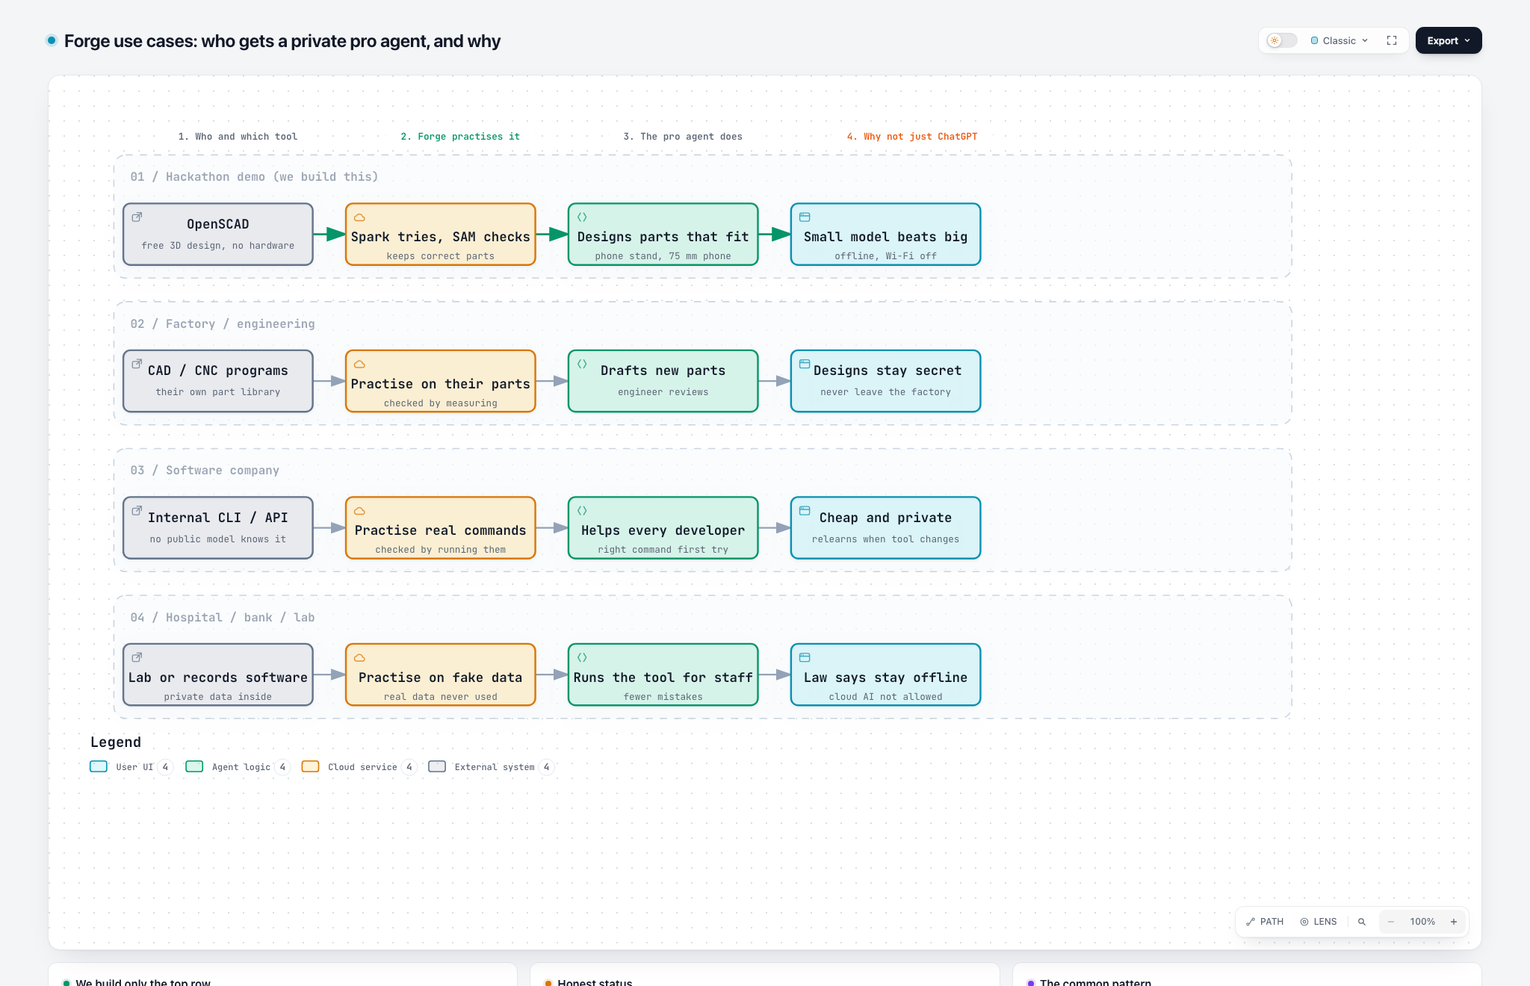
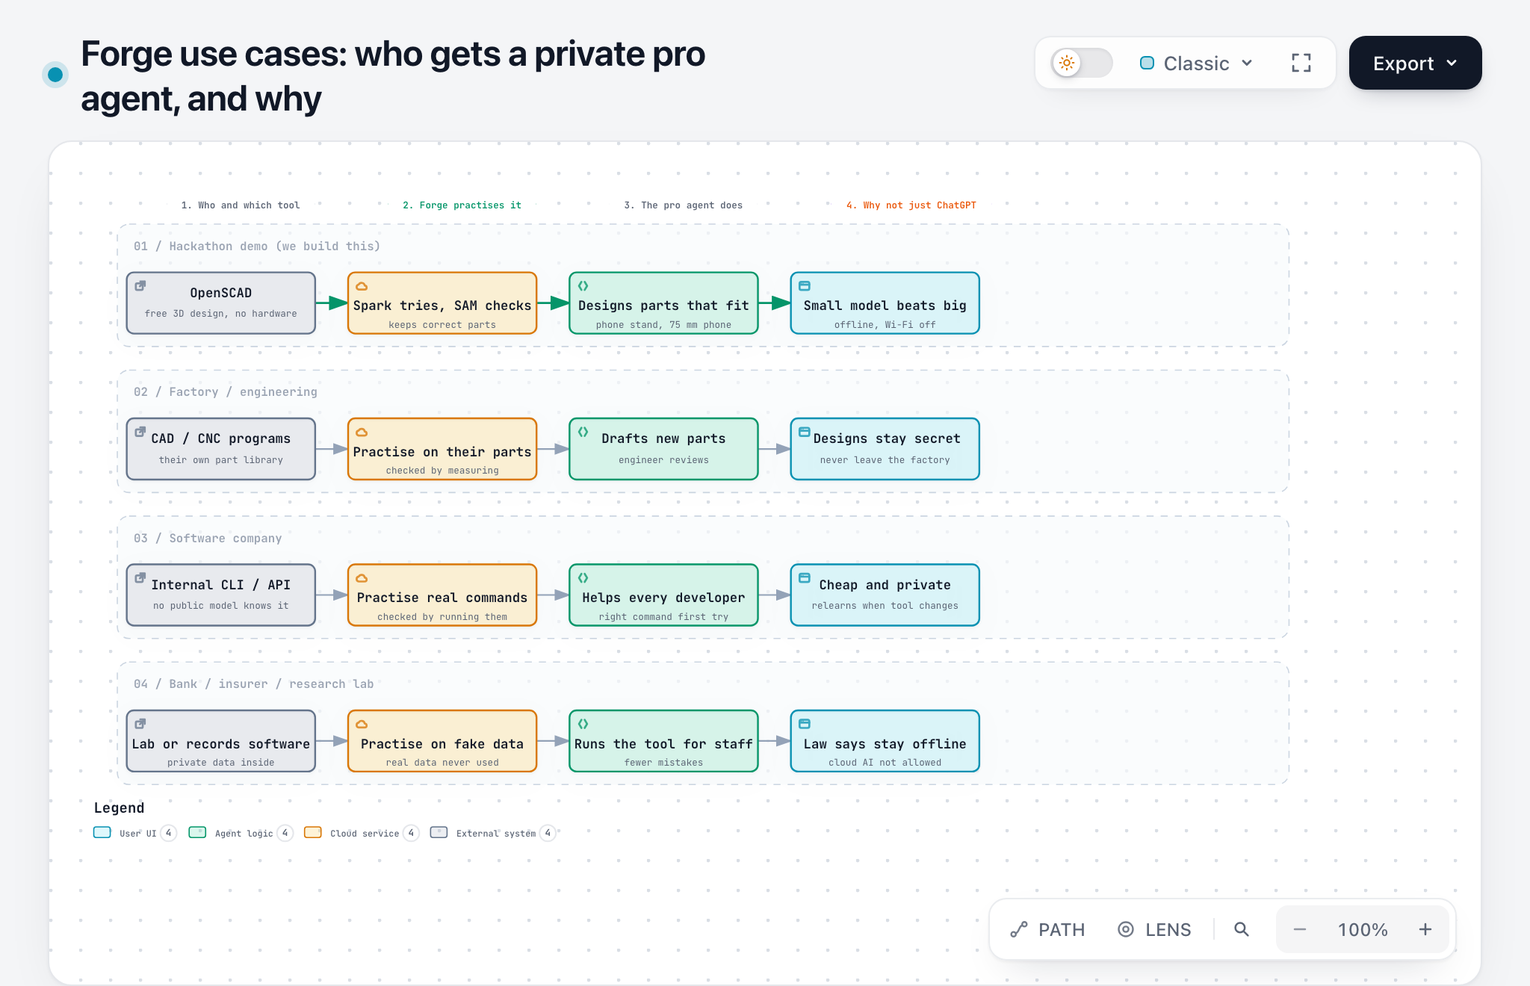
Repo readiness P1-P5 (verifier): no health/export-control wording (use-case diagram re-rendered), full authorship list, hackathon dates (kickoff Oct 26, HerdShot script origin), derivative-licence notice, third-party docs (CadQuery Apache-2.0, FreeCAD CC-BY-3.0), cloud env names; untrack Obsidian wo

diff --git a/docs/diagrams/forge-use-cases.html b/docs/diagrams/forge-use-cases.html
@@ -5023,7 +5023,7 @@ OTHER DEALINGS IN THE FONT SOFTWARE.
         <text x="54" y="322" class="t-dim" font-size="10" font-weight="600">03 / Software company</text>
 
         <rect data-graph-role="structural-frame" data-composition-frame-kind="lane" data-composition-frame-id="lane-3" x="40" y="424" width="995" height="104" rx="10" class="c-lane" stroke-width="1"/>
-        <text x="54" y="446" class="t-dim" font-size="10" font-weight="600">04 / Hospital / bank / lab</text>
+        <text x="54" y="446" class="t-dim" font-size="10" font-weight="600">04 / Bank / insurer / research lab</text>
 
         <!-- Phase headers -->
         <line x1="82" y1="35" x2="207.6" y2="35" class="a-default" stroke-width="1.1"/>
@@ -5201,8 +5201,8 @@ OTHER DEALINGS IN THE FONT SOFTWARE.
           <text data-detail="context" x="692" y="379" class="t-muted" font-size="8" text-anchor="middle">relearns when tool changes</text>
         </g>
 
-        <g id="node-p_tool" data-node-id="p_tool" data-node-label="Lab or records software" tabindex="0" role="button" aria-label="Focus Lab or records software, private data inside, Hospital / bank / lab › 1. Who and which tool" aria-pressed="false" data-node-kind="external" data-node-sublabel="private data inside" data-node-context="Hospital / bank / lab › 1. Who and which tool">
-          <title>Lab or records software · private data inside · Hospital / bank / lab › 1. Who and which tool</title>
+        <g id="node-p_tool" data-node-id="p_tool" data-node-label="Lab or records software" tabindex="0" role="button" aria-label="Focus Lab or records software, private data inside, Bank / insurer / research lab › 1. Who and which tool" aria-pressed="false" data-node-kind="external" data-node-sublabel="private data inside" data-node-context="Bank / insurer / research lab › 1. Who and which tool">
+          <title>Lab or records software · private data inside · Bank / insurer / research lab › 1. Who and which tool</title>
           <rect x="48" y="465" width="160" height="52" rx="6" class="c-mask"/>
           <rect x="48" y="465" width="160" height="52" rx="6" class="c-external" stroke-width="1.5"/>
           <g aria-hidden="true" data-semantic-sigil="external" class="semantic-sigil s-external" transform="translate(54 471) scale(0.6875)">
@@ -5213,8 +5213,8 @@ OTHER DEALINGS IN THE FONT SOFTWARE.
           <text data-detail="context" x="128" y="512.1" class="t-muted" font-size="8" text-anchor="middle">private data inside</text>
         </g>
 
-        <g id="node-p_forge" data-node-id="p_forge" data-node-label="Practise on fake data" tabindex="0" role="button" aria-label="Focus Practise on fake data, real data never used, Hospital / bank / lab › 2. Forge practises it" aria-pressed="false" data-node-kind="cloud" data-node-sublabel="real data never used" data-node-context="Hospital / bank / lab › 2. Forge practises it">
-          <title>Practise on fake data · real data never used · Hospital / bank / lab › 2. Forge practises it</title>
+        <g id="node-p_forge" data-node-id="p_forge" data-node-label="Practise on fake data" tabindex="0" role="button" aria-label="Focus Practise on fake data, real data never used, Bank / insurer / research lab › 2. Forge practises it" aria-pressed="false" data-node-kind="cloud" data-node-sublabel="real data never used" data-node-context="Bank / insurer / research lab › 2. Forge practises it">
+          <title>Practise on fake data · real data never used · Bank / insurer / research lab › 2. Forge practises it</title>
           <rect x="236" y="465" width="160" height="52" rx="6" class="c-mask"/>
           <rect x="236" y="465" width="160" height="52" rx="6" class="c-cloud" stroke-width="1.5"/>
           <g aria-hidden="true" data-semantic-sigil="cloud" class="semantic-sigil s-cloud" transform="translate(242 471) scale(0.6875)">
@@ -5224,8 +5224,8 @@ OTHER DEALINGS IN THE FONT SOFTWARE.
           <text data-detail="context" x="316" y="512.1" class="t-muted" font-size="8" text-anchor="middle">real data never used</text>
         </g>
 
-        <g id="node-p_does" data-node-id="p_does" data-node-label="Runs the tool for staff" tabindex="0" role="button" aria-label="Focus Runs the tool for staff, fewer mistakes, Hospital / bank / lab › 3. The pro agent does" aria-pressed="false" data-node-kind="backend" data-node-sublabel="fewer mistakes" data-node-context="Hospital / bank / lab › 3. The pro agent does">
-          <title>Runs the tool for staff · fewer mistakes · Hospital / bank / lab › 3. The pro agent does</title>
+        <g id="node-p_does" data-node-id="p_does" data-node-label="Runs the tool for staff" tabindex="0" role="button" aria-label="Focus Runs the tool for staff, fewer mistakes, Bank / insurer / research lab › 3. The pro agent does" aria-pressed="false" data-node-kind="backend" data-node-sublabel="fewer mistakes" data-node-context="Bank / insurer / research lab › 3. The pro agent does">
+          <title>Runs the tool for staff · fewer mistakes · Bank / insurer / research lab › 3. The pro agent does</title>
           <rect x="424" y="465" width="160" height="52" rx="6" class="c-mask"/>
           <rect x="424" y="465" width="160" height="52" rx="6" class="c-backend" stroke-width="1.5"/>
           <g aria-hidden="true" data-semantic-sigil="backend" class="semantic-sigil s-backend" transform="translate(430 471) scale(0.6875)">
@@ -5235,8 +5235,8 @@ OTHER DEALINGS IN THE FONT SOFTWARE.
           <text data-detail="context" x="504" y="512.1" class="t-muted" font-size="8" text-anchor="middle">fewer mistakes</text>
         </g>
 
-        <g id="node-p_why" data-node-id="p_why" data-node-label="Law says stay offline" tabindex="0" role="button" aria-label="Focus Law says stay offline, cloud AI not allowed, Hospital / bank / lab › 4. Why not just ChatGPT" aria-pressed="false" data-node-kind="frontend" data-node-sublabel="cloud AI not allowed" data-node-context="Hospital / bank / lab › 4. Why not just ChatGPT">
-          <title>Law says stay offline · cloud AI not allowed · Hospital / bank / lab › 4. Why not just ChatGPT</title>
+        <g id="node-p_why" data-node-id="p_why" data-node-label="Law says stay offline" tabindex="0" role="button" aria-label="Focus Law says stay offline, cloud AI not allowed, Bank / insurer / research lab › 4. Why not just ChatGPT" aria-pressed="false" data-node-kind="frontend" data-node-sublabel="cloud AI not allowed" data-node-context="Bank / insurer / research lab › 4. Why not just ChatGPT">
+          <title>Law says stay offline · cloud AI not allowed · Bank / insurer / research lab › 4. Why not just ChatGPT</title>
           <rect x="612" y="465" width="160" height="52" rx="6" class="c-mask"/>
           <rect x="612" y="465" width="160" height="52" rx="6" class="c-frontend" stroke-width="1.5"/>
           <g aria-hidden="true" data-semantic-sigil="frontend" class="semantic-sigil s-frontend" transform="translate(618 471) scale(0.6875)">

diff --git a/forge-wiki/wiki/assets/diagrams/forge-use-cases.html b/forge-wiki/wiki/assets/diagrams/forge-use-cases.html
@@ -5023,7 +5023,7 @@ OTHER DEALINGS IN THE FONT SOFTWARE.
         <text x="54" y="322" class="t-dim" font-size="10" font-weight="600">03 / Software company</text>
 
         <rect data-graph-role="structural-frame" data-composition-frame-kind="lane" data-composition-frame-id="lane-3" x="40" y="424" width="995" height="104" rx="10" class="c-lane" stroke-width="1"/>
-        <text x="54" y="446" class="t-dim" font-size="10" font-weight="600">04 / Hospital / bank / lab</text>
+        <text x="54" y="446" class="t-dim" font-size="10" font-weight="600">04 / Bank / insurer / research lab</text>
 
         <!-- Phase headers -->
         <line x1="82" y1="35" x2="207.6" y2="35" class="a-default" stroke-width="1.1"/>
@@ -5201,8 +5201,8 @@ OTHER DEALINGS IN THE FONT SOFTWARE.
           <text data-detail="context" x="692" y="379" class="t-muted" font-size="8" text-anchor="middle">relearns when tool changes</text>
         </g>
 
-        <g id="node-p_tool" data-node-id="p_tool" data-node-label="Lab or records software" tabindex="0" role="button" aria-label="Focus Lab or records software, private data inside, Hospital / bank / lab › 1. Who and which tool" aria-pressed="false" data-node-kind="external" data-node-sublabel="private data inside" data-node-context="Hospital / bank / lab › 1. Who and which tool">
-          <title>Lab or records software · private data inside · Hospital / bank / lab › 1. Who and which tool</title>
+        <g id="node-p_tool" data-node-id="p_tool" data-node-label="Lab or records software" tabindex="0" role="button" aria-label="Focus Lab or records software, private data inside, Bank / insurer / research lab › 1. Who and which tool" aria-pressed="false" data-node-kind="external" data-node-sublabel="private data inside" data-node-context="Bank / insurer / research lab › 1. Who and which tool">
+          <title>Lab or records software · private data inside · Bank / insurer / research lab › 1. Who and which tool</title>
           <rect x="48" y="465" width="160" height="52" rx="6" class="c-mask"/>
           <rect x="48" y="465" width="160" height="52" rx="6" class="c-external" stroke-width="1.5"/>
           <g aria-hidden="true" data-semantic-sigil="external" class="semantic-sigil s-external" transform="translate(54 471) scale(0.6875)">
@@ -5213,8 +5213,8 @@ OTHER DEALINGS IN THE FONT SOFTWARE.
           <text data-detail="context" x="128" y="512.1" class="t-muted" font-size="8" text-anchor="middle">private data inside</text>
         </g>
 
-        <g id="node-p_forge" data-node-id="p_forge" data-node-label="Practise on fake data" tabindex="0" role="button" aria-label="Focus Practise on fake data, real data never used, Hospital / bank / lab › 2. Forge practises it" aria-pressed="false" data-node-kind="cloud" data-node-sublabel="real data never used" data-node-context="Hospital / bank / lab › 2. Forge practises it">
-          <title>Practise on fake data · real data never used · Hospital / bank / lab › 2. Forge practises it</title>
+        <g id="node-p_forge" data-node-id="p_forge" data-node-label="Practise on fake data" tabindex="0" role="button" aria-label="Focus Practise on fake data, real data never used, Bank / insurer / research lab › 2. Forge practises it" aria-pressed="false" data-node-kind="cloud" data-node-sublabel="real data never used" data-node-context="Bank / insurer / research lab › 2. Forge practises it">
+          <title>Practise on fake data · real data never used · Bank / insurer / research lab › 2. Forge practises it</title>
           <rect x="236" y="465" width="160" height="52" rx="6" class="c-mask"/>
           <rect x="236" y="465" width="160" height="52" rx="6" class="c-cloud" stroke-width="1.5"/>
           <g aria-hidden="true" data-semantic-sigil="cloud" class="semantic-sigil s-cloud" transform="translate(242 471) scale(0.6875)">
@@ -5224,8 +5224,8 @@ OTHER DEALINGS IN THE FONT SOFTWARE.
           <text data-detail="context" x="316" y="512.1" class="t-muted" font-size="8" text-anchor="middle">real data never used</text>
         </g>
 
-        <g id="node-p_does" data-node-id="p_does" data-node-label="Runs the tool for staff" tabindex="0" role="button" aria-label="Focus Runs the tool for staff, fewer mistakes, Hospital / bank / lab › 3. The pro agent does" aria-pressed="false" data-node-kind="backend" data-node-sublabel="fewer mistakes" data-node-context="Hospital / bank / lab › 3. The pro agent does">
-          <title>Runs the tool for staff · fewer mistakes · Hospital / bank / lab › 3. The pro agent does</title>
+        <g id="node-p_does" data-node-id="p_does" data-node-label="Runs the tool for staff" tabindex="0" role="button" aria-label="Focus Runs the tool for staff, fewer mistakes, Bank / insurer / research lab › 3. The pro agent does" aria-pressed="false" data-node-kind="backend" data-node-sublabel="fewer mistakes" data-node-context="Bank / insurer / research lab › 3. The pro agent does">
+          <title>Runs the tool for staff · fewer mistakes · Bank / insurer / research lab › 3. The pro agent does</title>
           <rect x="424" y="465" width="160" height="52" rx="6" class="c-mask"/>
           <rect x="424" y="465" width="160" height="52" rx="6" class="c-backend" stroke-width="1.5"/>
           <g aria-hidden="true" data-semantic-sigil="backend" class="semantic-sigil s-backend" transform="translate(430 471) scale(0.6875)">
@@ -5235,8 +5235,8 @@ OTHER DEALINGS IN THE FONT SOFTWARE.
           <text data-detail="context" x="504" y="512.1" class="t-muted" font-size="8" text-anchor="middle">fewer mistakes</text>
         </g>
 
-        <g id="node-p_why" data-node-id="p_why" data-node-label="Law says stay offline" tabindex="0" role="button" aria-label="Focus Law says stay offline, cloud AI not allowed, Hospital / bank / lab › 4. Why not just ChatGPT" aria-pressed="false" data-node-kind="frontend" data-node-sublabel="cloud AI not allowed" data-node-context="Hospital / bank / lab › 4. Why not just ChatGPT">
-          <title>Law says stay offline · cloud AI not allowed · Hospital / bank / lab › 4. Why not just ChatGPT</title>
+        <g id="node-p_why" data-node-id="p_why" data-node-label="Law says stay offline" tabindex="0" role="button" aria-label="Focus Law says stay offline, cloud AI not allowed, Bank / insurer / research lab › 4. Why not just ChatGPT" aria-pressed="false" data-node-kind="frontend" data-node-sublabel="cloud AI not allowed" data-node-context="Bank / insurer / research lab › 4. Why not just ChatGPT">
+          <title>Law says stay offline · cloud AI not allowed · Bank / insurer / research lab › 4. Why not just ChatGPT</title>
           <rect x="612" y="465" width="160" height="52" rx="6" class="c-mask"/>
           <rect x="612" y="465" width="160" height="52" rx="6" class="c-frontend" stroke-width="1.5"/>
           <g aria-hidden="true" data-semantic-sigil="frontend" class="semantic-sigil s-frontend" transform="translate(618 471) scale(0.6875)">

diff --git a/README.md b/README.md
@@ -3,7 +3,8 @@
 **Teach a small open model to use a company's CAD tool as well as a big model with every trick, but many times
 cheaper, faster and fully private.** Built with Muse Spark Open.
 
-Meta Global AI Developer Hackathon 2026 · Indie track, Push the Frontier · submission due Nov 4, 18:00 CET.
+Meta Global AI Developer Hackathon 2026 · Indie track, Push the Frontier · kickoff Oct 26, build period Oct 27 - Nov 4,
+official deadline Nov 4, 9 PM ET (our internal deadline: Nov 4, 18:00 CET).
 
 ## The idea in one minute
 1. **A factory makes practice jobs** ("make a pipe tee: main tube 27.6 mm …") and a correct reference part for each one.
@@ -28,11 +29,13 @@ may not send them to a cloud AI. A small model that runs on their own GPU and al
 The one page with every claim and its source: [`forge-wiki/wiki/status.md`](forge-wiki/wiki/status.md). All numbers so
 far: [`forge-wiki/wiki/findings/scoreboard.md`](forge-wiki/wiki/findings/scoreboard.md).
 
-## Built during the hackathon (Oct 27 - Nov 4)
-Everything in this repository was made during the hackathon. The first commit is from Oct 28.
+## Built during the hackathon (kickoff Oct 26, build period Oct 27 - Nov 4)
+Everything in this repository was made during the hackathon. The first commit is from Oct 28. The one piece with an
+older origin: `deploy/modal_glimmer.py` was adapted from the Modal deploy script of our earlier hackathon project
+HerdShot, which was written on Oct 26 (kickoff day).
 | Date | What was built |
 |---|---|
-| Oct 28 | Project setup; Glimmer served on Modal ([`deploy/modal_glimmer.py`](deploy/modal_glimmer.py), **adapted on Oct 28 from the deploy script of our earlier hackathon project HerdShot**, with its own app, secret and volumes); a fictional company tool "Keel" and its 30-job exam: Glimmer already scored 97.8%, so there was no room to improve and that direction was dropped |
+| Oct 28 | Project setup; Glimmer served on Modal ([`deploy/modal_glimmer.py`](deploy/modal_glimmer.py), **adapted on Oct 28 from the HerdShot deploy script (written Oct 26)**, with its own app, secret and volumes); a fictional company tool "Keel" and its 30-job exam: Glimmer already scored 97.8%, so there was no room to improve and that direction was dropped |
 | Oct 29 | Coverage audit; the main baseline (87% / 88% / 95%); training smoke test; FreeCAD gap test (no gap); "thinking" exam pilot (too easy, stopped) |
 | Oct 30 | The factory: generator, teacher runner, cloud box and referee, learning loop, gallery; four repair rounds found by our own checks before any teacher money was spent |
 | Oct 31 - Nov 4 | (planned) factory run, training, dev check, final exam, demo |
@@ -48,16 +51,22 @@ The full day-by-day log is in [`forge-wiki/log.md`](forge-wiki/log.md).
 | Muse Wonder (api.meta.ai) | optional backup teacher (`--escalate`); **never used for training data** | [Meta Model API Terms](https://dev.meta.ai/legal/terms-of-service) §10.1 forbid training competing models on outputs without Meta's written authorization, so Wonder outputs stay out of training |
 
 ## Who wrote what (honest version)
-- **Code:** written by **Muse Code** (Meta's coding agent) from written specs. Each build round's full event log and a
-  readable diary are in [`results/`](results/) (`muse-*.jsonl`, `muse-*.diary.md`): every file Muse read, edited and
-  ran. Muse Code cannot commit, so its work was committed by Alyssa.
-- **Specs, plans, exams and reference answers, the wiki, and review:** Claude (Anthropic) as planning assistant, and a
-  separate Claude verifier agent that reviewed every step before money was spent. Exams were written by Claude on
-  purpose, so the AI being tested never writes its own test.
-- **Exceptions (disclosed):** a few early scripts were written by Claude, not Muse Code (`experiments/smoke/train_smoke.py`,
-  `score_answer.py`, `experiments/bmax/run_session*.sh`, `glimmer_dashboard.py`,
-  `experiments/option-a/audit/coverage_audit.py`). They are records of runs that already happened; Muse Code rebuilt
-  the parts still in use.
+- **Product code** (factory, teacher runner, learning loop, gallery, cloud box and referee, runners, training pipeline,
+  the Keel company tool and dashboard, their tests): written by **Muse Code** (Meta's coding agent) from written specs.
+  Each build round's full event log and a readable diary are in [`results/`](results/) (`muse-*.jsonl`; diaries
+  `muse-final-r1*.diary.md` for the factory rounds): every file Muse read, edited and ran. Muse Code cannot commit, so
+  its work was committed by Alyssa.
+- **Written by Claude (Anthropic), on purpose:** specs and plans (`*SPEC*.md`, `PLAN.md`), the wiki, and **all exam
+  content and referees**, so the AI being tested never writes its own test:
+  `experiments/first-test/` (`jobs.py`, `checks.py`, `expected.json`, `selftest.py`, `blind/`, `run_live.sh`),
+  `experiments/keel-exam/` and `keel-exam-v2/` (`jobs.py`, `referee.py`, `selftest.py`, `score_blind.py`, `blind/`),
+  `experiments/thinking/` (`thinking_jobs.py`, `selftest.py`, `hand/`), `experiments/option-a/` drafts,
+  `experiments/bmax/examples.py`, `scripts/`, and the blind-rebuild answers in `results/blind-rebuild*`.
+- **Also written by Claude (disclosed):** `deploy/modal_glimmer.py` (adapted from HerdShot, later edited by Muse Code),
+  and a few early run scripts (`experiments/smoke/train_smoke.py`, `score_answer.py`,
+  `experiments/bmax/run_session*.sh`, `glimmer_dashboard.py`, `experiments/option-a/audit/coverage_audit.py`). They
+  are records of runs that already happened; Muse Code rebuilt the parts still in use.
+- **Review:** a separate Claude verifier agent reviewed every step before money was spent.
 - **Published by Alyssa** (all commits are hers; most carry a "Co-Authored-By: Claude" line).
 
 ## Run it
@@ -70,7 +79,8 @@ python3.12 -m venv .venv && .venv/bin/pip install cadquery==2.8.0 cadquery-ocp==
 .venv/bin/python experiments/factory/make_jobs.py      # 200 jobs + the self-check table, offline
 .venv/bin/python experiments/factory/gallery.py --out results/factory-gallery   # pictures of 10 parts
 ```
-Cloud steps (cost money, need your own keys): `experiments/final/cloud_cq.py --check-refs --exam factory`
+Cloud steps (cost money, need `modal setup` and your own keys in environment variables `BASETEN_KEY`,
+`META_HERDSHOT_API_KEY`, `GLIMMER_URL`/`GLIMMER_KEY`; our `*_session.sh` wrappers read them from envsave): `experiments/final/cloud_cq.py --check-refs --exam factory`
 (Modal CPU, cents), `experiments/factory/teacher.py --ids pilot --out <dir> --budget-dollars 1.2` (Baseten).
 Every paid script refuses to run past its money cap.
 
@@ -91,4 +101,14 @@ Every paid script refuses to run past its money cap.
 Training rule: never `modal run forge_train.py::train` directly; it bypasses the exam guard and the money cap.
 
 ## Licence
-Apache-2.0, see [LICENSE](LICENSE).
+This repository's own code and docs: Apache-2.0, see [LICENSE](LICENSE).
+
+**Trained models:** a Glimmer trained on Spark Open's answers is a "Derivative" under the Muse Model License. Any
+trained weights or LoRA we share will ship with the Muse Spark Open LICENSE and Usage Policy, Glimmer's Apache-2.0
+licence and Usage Policy, and the notice "Built with Muse Spark Open". No weights are in this repository.
+
+**Third-party documentation included:**
+- `experiments/first-test/manual.md` (and the copies used as prompts): excerpts of the CadQuery 2.8 documentation,
+  Apache-2.0 (https://github.com/CadQuery/cadquery).
+- `experiments/freecad/manual.md`: excerpts of the FreeCAD documentation (FreeCAD wiki), CC-BY-3.0
+  (https://wiki.freecad.org), attributed to the FreeCAD documentation authors.

diff --git a/company/SPEC.md b/company/SPEC.md
@@ -14,7 +14,7 @@ bbox, volume, area, centre of mass, overlap mismatch ≤ 0.2%) still judges ever
 ## 2. The company (story shown in the dashboard)
 - **Quillon Orbital Works**: builds structural parts for small satellites (brackets, mounting plates, panel frames,
   standoffs, harness clips) for its smallsat bus **"Petrel"** (programmes Petrel-1, Petrel-2).
-- Designs are **export-controlled** (fictional "QX-2" control level): they may not be sent to cloud AI. That is why
+- Designs are **confidential company IP** (fictional "QX-2" confidentiality level): they may not be sent to cloud AI. That is why
   the AI design assistant runs on one in-house GPU ("on-prem"), which is the Forge story.
 - Small team (fictional): Structures, Avionics Integration, Quality. Engineers file **design requests** like
   "BRK-0412: base plate 60 × 40 × 4, four KF-M4 clearance holes 6 mm in from each corner, north wall 25 high".

diff --git a/forge-wiki/wiki/decisions/forge-plan-2026-10-28.md b/forge-wiki/wiki/decisions/forge-plan-2026-10-28.md
@@ -38,7 +38,7 @@ today's status), and the Oct 28 → Nov 4 schedule with one stop-or-go test on O
 | Hackathon demo (built) | OpenSCAD | designs parts that fit | small model beats big, offline |
 | Factory / engineering | CAD / CNC programs | drafts parts, engineer reviews | designs stay secret |
 | Software company | internal CLI / API | right command first try | cheap, private, relearns on change |
-| Hospital / bank / lab | records or lab software | runs the tool for staff | must stay offline; practises on fake data |
+| Bank / insurer / research lab | records or lab software | runs the tool for staff | must stay offline; practises on fake data |
 - Common pattern: a tool the public AI doesn't know, a way to check results automatically, and data that must stay private.
 
 ![[assets/diagrams/forge-prepare.png]]

diff --git a/forge-wiki/wiki/findings/quillon-keel-build-2026-10-28.md b/forge-wiki/wiki/findings/quillon-keel-build-2026-10-28.md
@@ -18,7 +18,7 @@ runner, sandbox, blind/), Muse Code logs `results/muse-*.jsonl`, verifier report
 ## Why (decisions)
 - decision (user, ~22:00): after the first test, move from public CadQuery to a **non-public tool**, so no model
   could have learned it from the internet.
-- decision (user, ~22:30): the company is a **space company making satellite parts** (export-controlled designs →
+- decision (user, ~22:30): the company is a **space company making satellite parts** (confidential designs →
   needs an on-prem model, the Forge story), with an **internal dashboard like a real company**.
 - decision (user, ~23:30): make the tool **more realistic** (v1 was close to plain CAD).
 
